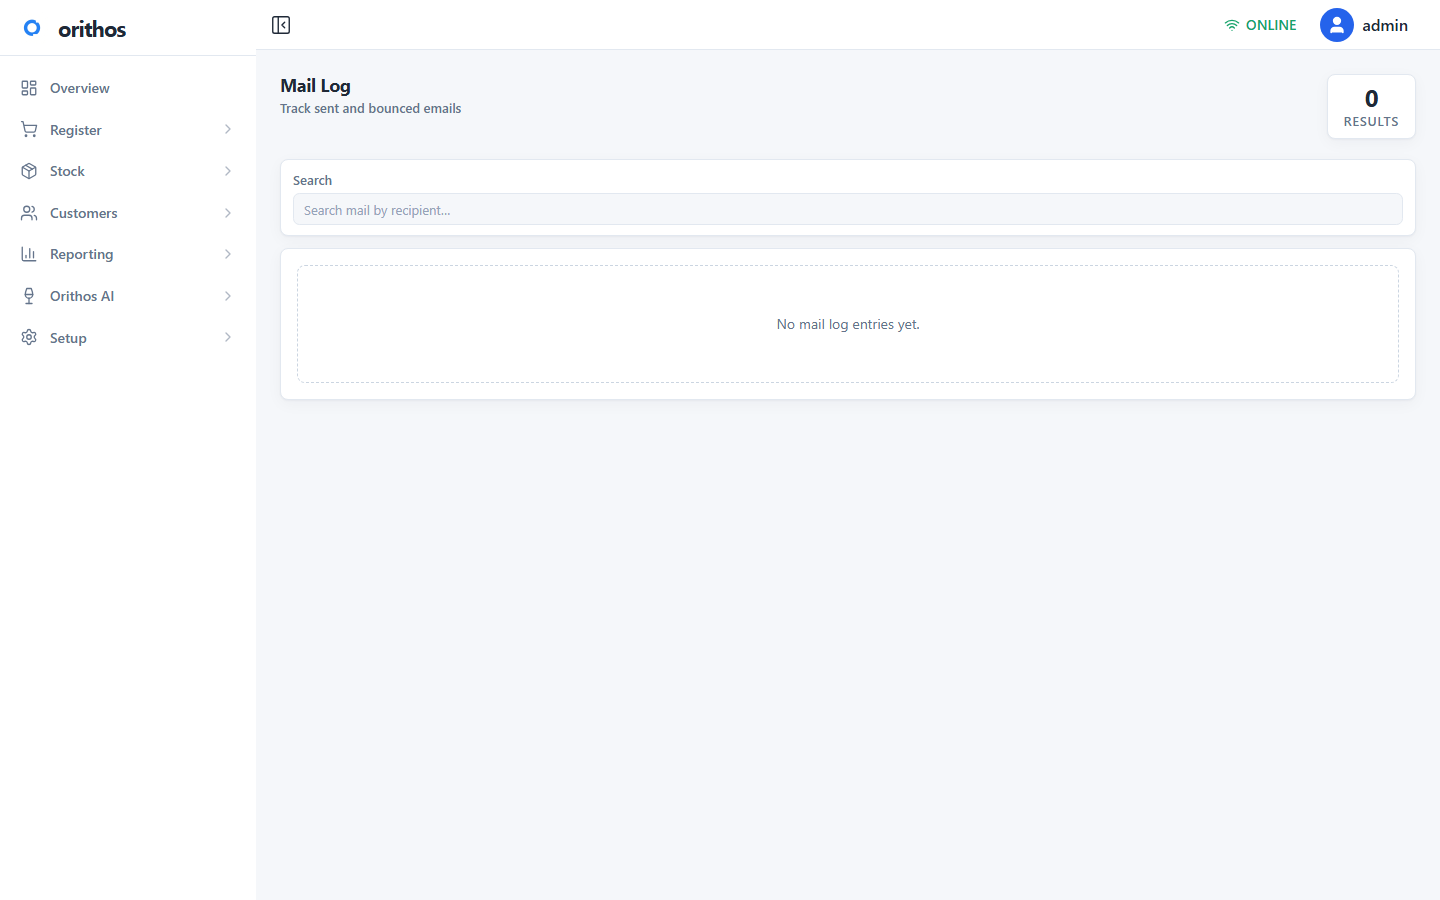
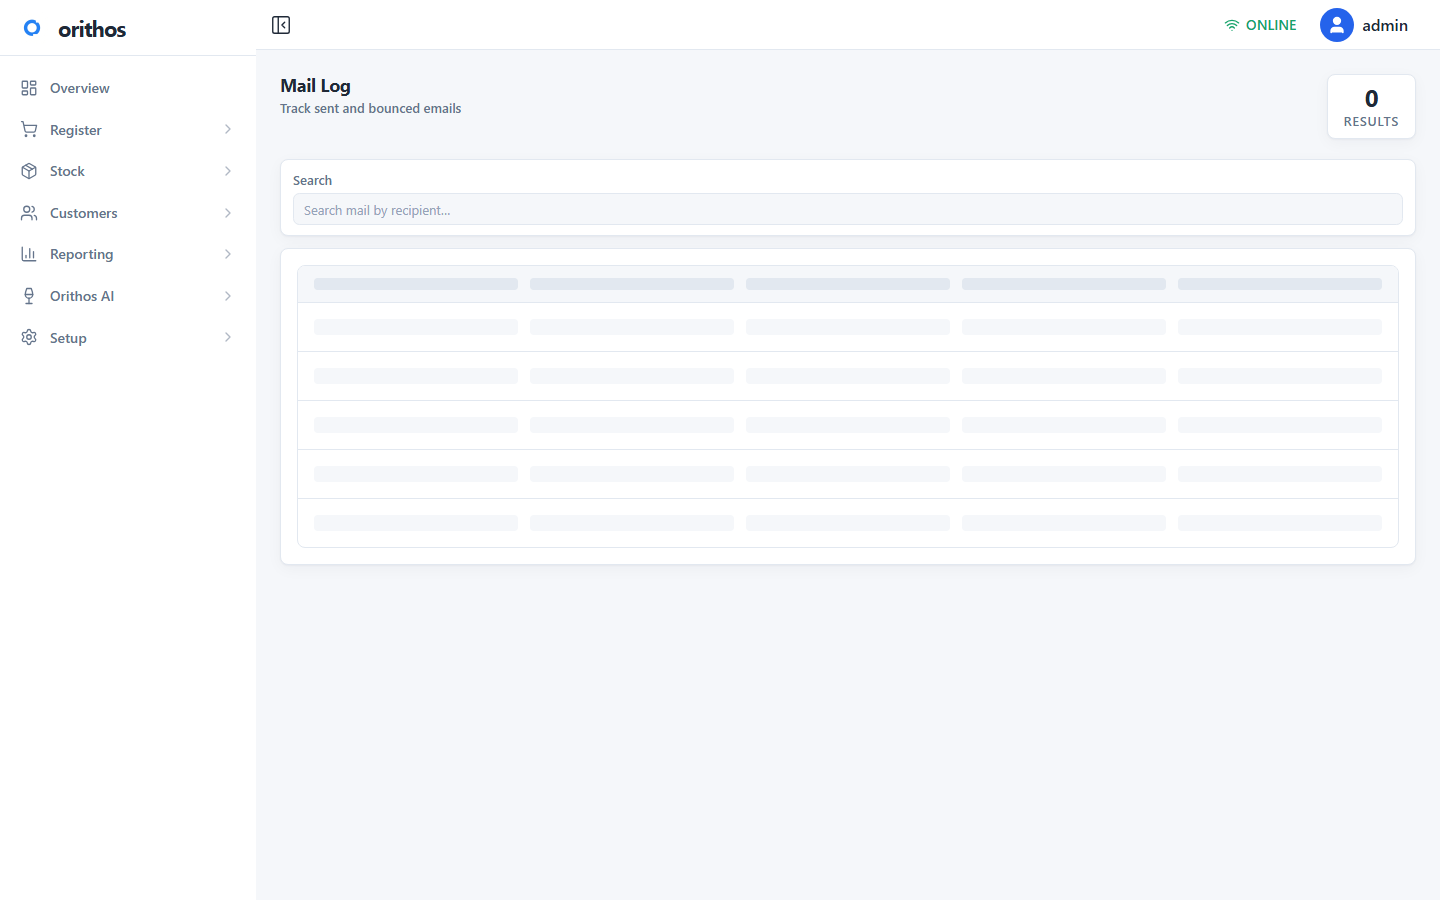
test: verify admin search empty states

Changed region(s): [[0.2188, 0.3111, 0.9688, 0.3733]]

diff --git a/docs/HANDOFF_CURRENT_2026-10-17.md b/docs/HANDOFF_CURRENT_2026-10-17.md
@@ -12,8 +12,9 @@
 当前仓库基线：
 
 - 分支：`main`
-- 最新提交：`08fb1ab docs: refresh post-push admin list evidence`
+- 最新提交：`50095f4 docs: align cash P0 status with implementation`
 - 本轮功能代码提交：`9224563 fix: tighten admin list and receiving UX`；回归脚本提交：`0baf7c6 test: add authenticated admin list regression batch`
+- 共用弹窗交互提交：`1fb0fe0 fix: improve shared dialog keyboard behavior`
 - GitHub：`https://github.com/aishawn/aistore_pos.git`
 - 工作区保留用户未提交的 `pos-ui/tsconfig.json`，不得覆盖、回滚或混入业务提交
 
@@ -54,7 +55,7 @@
 - 最新 `docs/UAT_PAGE_MATRIX_2026-10-13.json` 的 `deployment` 为空，`sourceCommit` 为旧提交；它证明历史回归通过，不能证明当前最新批次已部署。
 - 回收项搜索和 Mail Log 搜索的后端修改尚未用部署后的只读数据完成线上验证。
 - 本轮待部署改动尚未用实际运行 SHA 完成线上回归；需重点验证采购收货弹窗、Platform Stores 筛选空态、Mail Log/Trashed Items 的 390px 布局和 no-store 响应头。
-- 认证只读管理列表回归脚本 `scripts/pilot-admin-list-batch-uat.mjs` 已在推送后再次运行：采购、Platform Stores、Mail Log、Trashed Items 在 390px/1440px 共 `8/8 PASS`，无横向溢出；证据见 `docs/UAT_ADMIN_LIST_BATCH_2026-10-17.json` 和 `docs/screenshots/2026-10-17-admin-list-batch/`。该证据的 `sourceCommit=0baf7c6`，`deployment=null`，所以仍需 Dokploy SHA 绑定。
+- 认证只读管理列表回归脚本 `scripts/pilot-admin-list-batch-uat.mjs` 已在推送后再次运行：采购、Platform Stores、Mail Log、Trashed Items 在 390px/1440px 共 `8/8 PASS`，无横向溢出，并在三个搜索页验证无结果文案、Clear 操作和清除后的输入状态；证据见 `docs/UAT_ADMIN_LIST_BATCH_2026-10-17.json` 和 `docs/screenshots/2026-10-17-admin-list-batch/`。该证据的 `sourceCommit=9224563`，`deployment=null`，所以仍需 Dokploy SHA 绑定。
 - 最新 server `layout.tsx` 缓存隔离、移动端报表、平台门店/工具页和 Register Closures 详情已完成认证只读矩阵和重点截图回归；仍未取得 Dokploy 实际运行 SHA，因此不能把证据绑定到具体线上容器版本。
 - 收银小票时区、采购/补货显示时区虽有页面回归，仍需在获准的 disposable tenant 业务链路中做一次真实小票/订单回读确认。
 - 实体刷卡终端、打印机、钱箱、分单收款、离线 POS、生产 AI、SMTP 实际发信、正式门店现金实点差异处理仍未覆盖或未实现。
